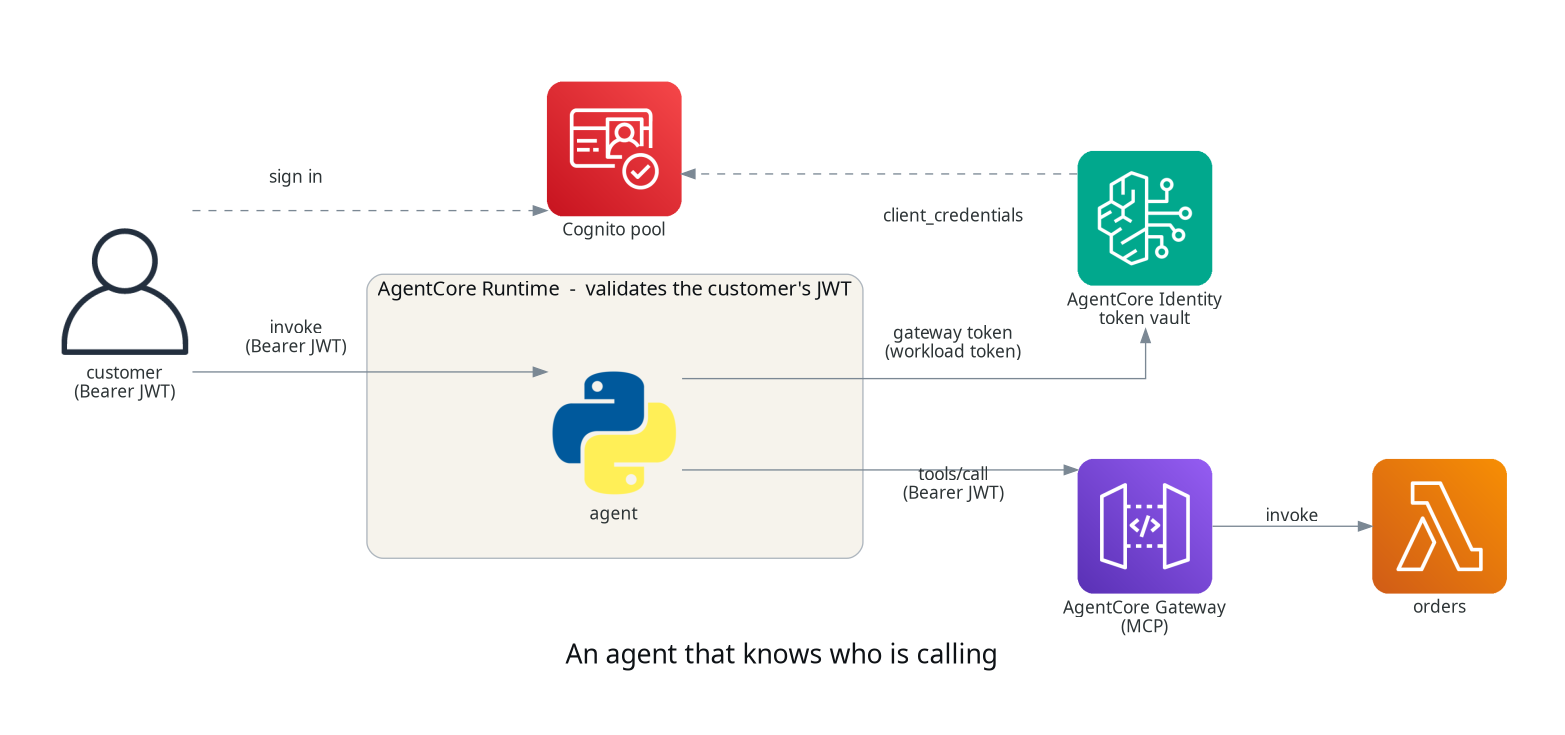
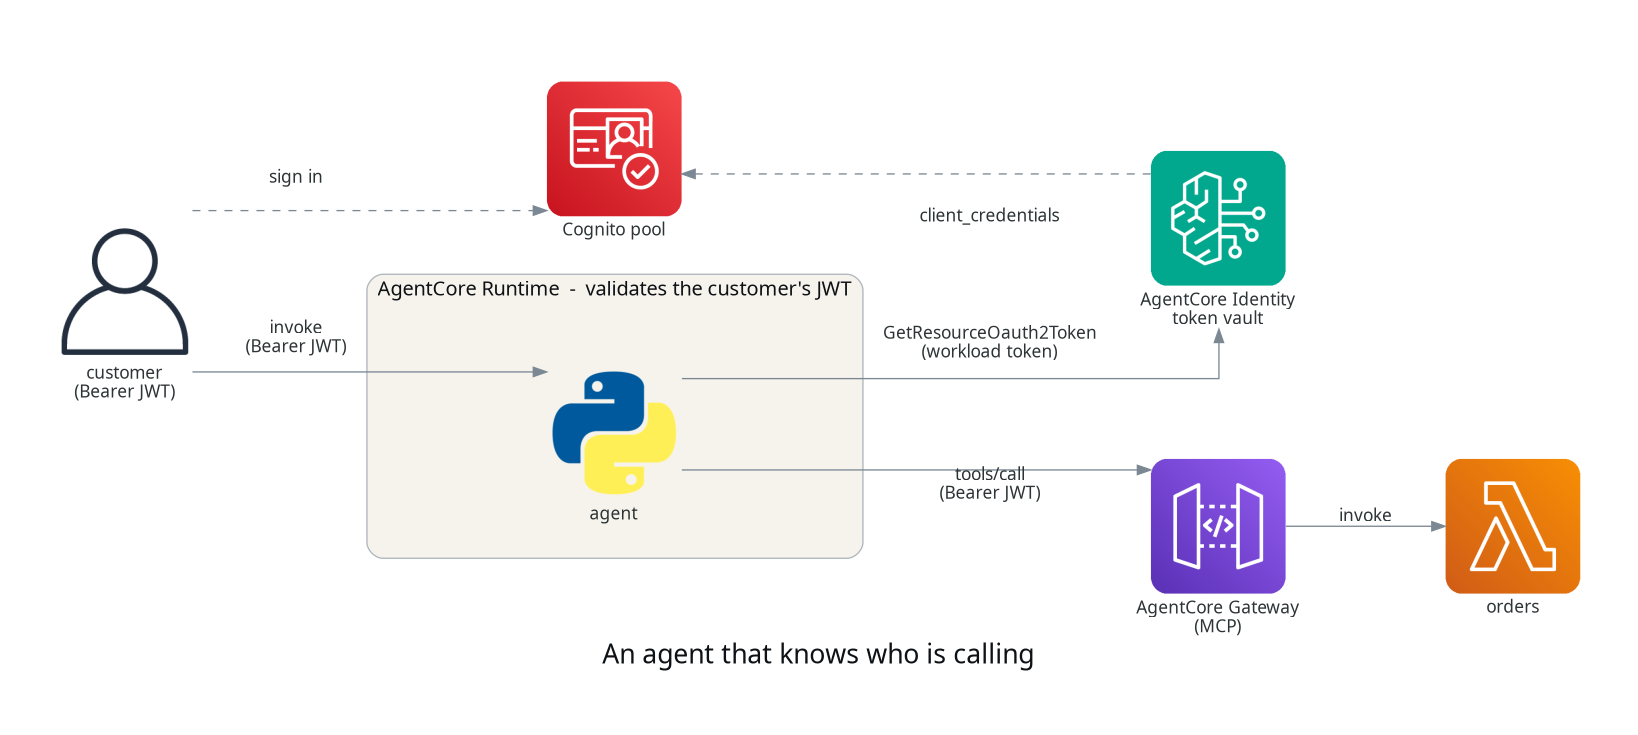
docs: re-render posts 04 and 05 after the review changes
Claude-Session: https://claude.ai/code/session_01YST1ZuMsoENqyeTYghbwr4

diff --git a/docs/agentcore-05-identity/index.html b/docs/agentcore-05-identity/index.html
@@ -4,7 +4,7 @@
 <meta charset="utf-8">
 <title>Knowing who your agent is acting for, with AgentCore Identity — Levantar Demos</title>
 <meta name="viewport" content="width=device-width, initial-scale=1">
-<meta name="description" content="How to put a JWT authorizer on an AgentCore Runtime so every caller is a known customer, have the agent take that identity from the verified token rather than the request body, and move the agent's own credentials into AgentCore Identity's token vault so the agent's code never handles a secret. >">
+<meta name="description" content="How to put a JWT authorizer on an AgentCore Runtime so every caller is an authenticated user of a Cognito pool that Brightwell controls, have the agent take that identity from the verified token rather than the request body, and move the agent's own credentials into AgentCore Identity's token vault ">
 <link rel="canonical" href="https://levantar-ai.github.io/demos/agentcore-05-identity/">
 <meta name="author" content="Andy Rea">
 <meta name="robots" content="index, follow, max-image-preview:large">
@@ -12,7 +12,7 @@
 <meta property="og:site_name" content="Levantar">
 <meta property="og:locale" content="en_GB">
 <meta property="og:title" content="Knowing who your agent is acting for, with AgentCore Identity">
-<meta property="og:description" content="How to put a JWT authorizer on an AgentCore Runtime so every caller is a known customer, have the agent take that identity from the verified token rather than the request body, and move the agent's own credentials into AgentCore Identity's token vault so the agent's code never handles a secret. >">
+<meta property="og:description" content="How to put a JWT authorizer on an AgentCore Runtime so every caller is an authenticated user of a Cognito pool that Brightwell controls, have the agent take that identity from the verified token rather than the request body, and move the agent's own credentials into AgentCore Identity's token vault ">
 <meta property="og:image" content="https://levantar-ai.github.io/demos/agentcore-05-identity/social.png">
 <meta property="og:image:width" content="1200">
 <meta property="og:image:height" content="630">
@@ -23,7 +23,7 @@
 <meta property="article:section" content="Engineering">
 <meta name="twitter:card" content="summary_large_image">
 <meta name="twitter:title" content="Knowing who your agent is acting for, with AgentCore Identity">
-<meta name="twitter:description" content="How to put a JWT authorizer on an AgentCore Runtime so every caller is a known customer, have the agent take that identity from the verified token rather than the request body, and move the agent's own credentials into AgentCore Identity's token vault so the agent's code never handles a secret. >">
+<meta name="twitter:description" content="How to put a JWT authorizer on an AgentCore Runtime so every caller is an authenticated user of a Cognito pool that Brightwell controls, have the agent take that identity from the verified token rather than the request body, and move the agent's own credentials into AgentCore Identity's token vault ">
 <meta name="twitter:image" content="https://levantar-ai.github.io/demos/agentcore-05-identity/social.png">
 <meta name="twitter:image:alt" content="Knowing who your agent is acting for, with AgentCore Identity">
 <link rel="icon" type="image/png" href="../favicon.png">
@@ -32,11 +32,11 @@
   "@context": "https://schema.org",
   "@type": "BlogPosting",
   "headline": "Knowing who your agent is acting for, with AgentCore Identity",
-  "description": "How to put a JWT authorizer on an AgentCore Runtime so every caller is a known customer, have the agent take that identity from the verified token rather than the request body, and move the agent's own credentials into AgentCore Identity's token vault so the agent's code never handles a secret. >",
+  "description": "How to put a JWT authorizer on an AgentCore Runtime so every caller is an authenticated user of a Cognito pool that Brightwell controls, have the agent take that identity from the verified token rather than the request body, and move the agent's own credentials into AgentCore Identity's token vault ",
   "image": "https://levantar-ai.github.io/demos/agentcore-05-identity/social.png",
   "datePublished": "2026-09-07",
   "dateModified": "2026-09-07",
-  "wordCount": 1200,
+  "wordCount": 1600,
   "inLanguage": "en-GB",
   "mainEntityOfPage": {
     "@type": "WebPage",
@@ -173,7 +173,7 @@
         <div class="who">
           <div><span class="name">Andy Rea</span></div>
           <div class="role">Co-Founder &amp; CTO, <a class="org" href="https://levantar.ai" target="_blank" rel="noopener">Levantar</a></div>
-          <div class="facts"><time datetime="2026-09-07">7 September 2026</time><span class="sep">·</span>6 min read<span class="sep">·</span>AgentCore series</div>
+          <div class="facts"><time datetime="2026-09-07">7 September 2026</time><span class="sep">·</span>8 min read<span class="sep">·</span>AgentCore series</div>
         </div>
       </div>
       <nav class="series-nav prev">
@@ -183,11 +183,12 @@
         </a>
       </nav>
 <h2>TL;DR;</h2>
-<p>How to put a JWT authorizer on an AgentCore Runtime so every caller is a
-known customer, have the agent take that identity from the verified token
-rather than the request body, and move the agent's own credentials into
-AgentCore Identity's token vault so the agent's code never handles a
-secret.</p>
+<p>How to put a JWT authorizer on an AgentCore Runtime so every caller is an
+authenticated user of a Cognito pool that Brightwell controls, have the
+agent take that identity from the verified token rather than the request
+body, and move the agent's own credentials into AgentCore Identity's token
+vault so the agent's code asks for a token rather than handling the
+secret itself.</p>
 <blockquote>
 <p>SOURCE CODE - All code for this post is available at:
 <a href="https://github.com/levantar-ai/demos/tree/main/agentcore/05-identity">https://github.com/levantar-ai/demos/tree/main/agentcore/05-identity</a></p>
@@ -197,33 +198,44 @@ secret.</p>
 Brightwell, a small online retailer of outdoor kit that ships with DPD and
 Royal Mail. Posts 01 to 04 gave it a runtime, a tool that looks orders up,
 memory and a sandbox. None of them knew who was asking.</p>
-<p>That was deliberate, and it left two gaps that were flagged as they went
-past. Post 02 noted that every call to the gateway carried the same
-workload identity, so the gateway established that a legitimate client was
-calling, not that it was entitled to a particular order. Post 03 took the
-memory actor straight from the request body, with a note that a real
-application maps it from an identity the workload has actually verified.
-Until now, anyone who could invoke the runtime could say they were anyone.</p>
-<p>This post closes both. Inbound, the runtime validates a customer's bearer
-token before the agent sees the request, and the agent takes the customer
-from the token's claims. Outbound, the agent stops holding a client secret
-to reach the gateway and asks AgentCore Identity for a token instead. Both
-halves are the precondition for the next post, where a model is handed
-these tools and has to act as a known customer rather than as a string the
-caller supplied.</p>
+<p>That was deliberate, and it left two gaps. The gateway in post 02 knew a
+legitimate client was calling, not which customer, and the memory in post
+03 took its actor from the request body. Until now, anyone who could
+invoke the runtime could say they were anyone.</p>
+<p>This post addresses both. Inbound, the runtime validates a customer's
+bearer token before the agent sees the request, and the agent takes the
+customer from the token's claims. Outbound, the agent stops holding a
+client secret to reach the gateway and asks AgentCore Identity for a token
+instead. What it does not do is carry the customer's identity through to
+the gateway. The gateway and the tool behind it still see the agent's own
+identity, so the customer scope is enforced in the agent's code, and that
+is worth keeping in view for the post where a model starts choosing tool
+arguments.</p>
 <p><img alt="Architecture" src="architecture.png" /></p>
 <video controls muted playsinline preload="metadata" style="width:100%;border-radius:14px;border:1px solid var(--line);margin:10px 0;"><source src="demo.mp4" type="video/mp4"></video>
 <h2>1 - Inbound, the runtime checks the caller</h2>
 <p>The Cognito pool from post 02 gains a second app client. The agent's
 client is a machine with a secret and the <code>client_credentials</code> grant.
-Customers are people, so their client has no secret and signs in with a
-password:</p>
+Customers get a public client with no secret. It allows the password
+flow, which keeps this demo to a CLI, and a customer-facing application
+would use Cognito's managed login with the authorization code flow and
+PKCE instead:</p>
 <pre><code class="language-hcl">resource &quot;aws_cognito_user_pool_client&quot; &quot;customers&quot; {
   name         = &quot;${local.name_prefix}-customers&quot;
   user_pool_id = aws_cognito_user_pool.agents.id
 
   generate_secret     = false
   explicit_auth_flows = [&quot;ALLOW_USER_PASSWORD_AUTH&quot;, &quot;ALLOW_REFRESH_TOKEN_AUTH&quot;]
+}
+</code></pre>
+<p>A token from this client proves the caller signed in to the pool. What
+makes that caller a Brightwell customer is that Brightwell creates the
+accounts, with the customer id as the username, and nobody else can. The
+pool's default allows self sign-up, which would let anyone with the public
+client id register a customer id before its owner, so the pool is set to
+admin-only creation:</p>
+<pre><code class="language-hcl">admin_create_user_config {
+  allow_admin_create_user_only = true
 }
 </code></pre>
 <p>The runtime then gets a JWT authorizer pointed at the pool's discovery
@@ -243,8 +255,8 @@ request_header_configuration {
 <p>From here the runtime checks the signature, issuer, expiry and client id
 of every bearer token before a request reaches the agent. A missing token
 gets a 401 from the service, a valid token from the wrong client gets a
-401 naming the mismatched claim, and IAM SigV4 invocation is off, a
-runtime accepts one method or the other.</p>
+401 naming the mismatched claim, and SigV4 invocation no longer works on
+this runtime, because a runtime accepts one inbound method or the other.</p>
 <blockquote>
 <p>NOTE: the allowlist is what makes the token visible to the agent. Without
 it the runtime still validates the token, but the container never sees
@@ -252,8 +264,9 @@ it and the agent has no way of knowing who called.</p>
 </blockquote>
 <h2>2 - The agent reads who is calling</h2>
 <p>Brightwell's customer ids are the usernames in the pool, so the access
-token's <code>username</code> claim is the customer id. The agent decodes the payload
-and takes the customer from there:</p>
+token's <code>username</code> claim is the customer id. The agent decodes the
+payload, checks it is an access token rather than an ID token, and takes
+the customer from there:</p>
 <pre><code class="language-python">def claims_from(headers):
     auth = headers.get(&quot;Authorization&quot;, &quot;&quot;)
     if not auth.startswith(&quot;Bearer &quot;):
@@ -268,7 +281,10 @@ and takes the customer from there:</p>
 
 
 def customer_from(headers):
-    username = (claims_from(headers) or {}).get(&quot;username&quot;)
+    claims = claims_from(headers) or {}
+    if claims.get(&quot;token_use&quot;) != &quot;access&quot;:
+        return None
+    username = claims.get(&quot;username&quot;)
     return username if isinstance(username, str) and username else None
 </code></pre>
 <p>Decoding without verifying is the documented pattern here. The runtime has
@@ -280,14 +296,18 @@ says as much:</p>
 <p>You can skip validating the token signature here because AgentCore
 Runtime has already validated the token during inbound authorization.</p>
 </blockquote>
-<p>A request that arrives without a usable token still gets a 401 from the
-agent. That should never happen, and the check is there so a
-misconfiguration fails loudly rather than defaulting to anyone.</p>
+<p>A request that reaches the agent without a usable access token still gets
+a 401 from the agent. That is not a second authentication, a forged
+payload would pass it, since nothing here checks a signature. It catches a
+missing or unusable token so the agent fails loudly rather than carrying
+on with no customer at all. The runtime's authorizer is the only control.</p>
 <p>Every route from posts 02 and 03 now takes the customer from that claim.
 <code>remember</code> and <code>recap</code> use it as the memory actor, and the <code>actor</code> field
-in the request body is gone. Order questions resolve through the customer's
-own orders, so an order id from another account is not found rather than
-looked up:</p>
+in the request body is gone. Order questions are answered from the
+customer's own order list, so an order id from another account comes back
+as not on the account rather than being fetched by id. Post 02's
+<code>lookup_order</code> tool, which answered for any order id, comes off the gateway
+target, since nothing acting for a customer has a use for it:</p>
 <pre><code class="language-python">def find_order(order_id, customer, workload_token):
     listed = json.loads(list_orders(customer, workload_token))
     for order in listed.get(&quot;orders&quot;, []):
@@ -298,9 +318,11 @@ looked up:</p>
 <h2>3 - Outbound, the agent's own credentials</h2>
 <p>Since post 02 the agent has read its Cognito client secret from Secrets
 Manager and minted its own gateway token. AgentCore Identity takes that
-over. An OAuth2 credential provider holds the client's credentials in the
-token vault, and Terraform sends them write-only, so they are never
-persisted in state:</p>
+over. An OAuth2 credential provider holds the agent client's id and secret
+in the token vault. Terraform passes them as write-only arguments, so this
+resource keeps no copy of the secret in state. The Cognito app client still
+holds its computed secret in state, as it has since post 02, which is why
+the state backend is encrypted and locked down:</p>
 <pre><code class="language-hcl">resource &quot;aws_bedrockagentcore_oauth2_credential_provider&quot; &quot;gateway&quot; {
   name                       = &quot;${local.name_prefix}-gateway&quot;
   credential_provider_vendor = &quot;CustomOauth2&quot;
@@ -316,12 +338,17 @@ persisted in state:</p>
       }
     }
   }
+
+  depends_on = [aws_cognito_user_pool_domain.agents]
 }
 </code></pre>
+<p>The provider fetches the discovery document when it is created, and the
+token endpoint is only in that document once the pool has a domain, hence
+the <code>depends_on</code>.</p>
 <p>Alongside the customer's token, the runtime hands the container a workload
-access token, an opaque token that identifies this agent, and the customer
-it is acting for, to AgentCore Identity. The agent presents it and gets a
-gateway token back. The secret read, the form post and the token cache
+access token in a request header. It represents the runtime's workload
+identity, and the agent treats it as opaque and presents it to AgentCore
+Identity, which hands a gateway token back. The secret read, the form post and the token cache
 from post 02 collapse to one call:</p>
 <pre><code class="language-python">def access_token(workload_token):
     response = client().get_resource_oauth2_token(
@@ -333,14 +360,17 @@ from post 02 collapse to one call:</p>
     return response[&quot;accessToken&quot;]
 </code></pre>
 <p><code>M2M</code> is the <code>client_credentials</code> flow. The same call with
-<code>USER_FEDERATION</code> is how an agent gets a token for a third party such as
-Google or GitHub on the customer's behalf, with the consent step and the
-per-customer token both handled by the vault. Brightwell's agent has no
-third party to reach yet, so that stays a sentence.</p>
+<code>USER_FEDERATION</code> is the path to a third party such as Google or GitHub on
+the customer's behalf. That needs an OAuth app registered with the
+provider and a callback URL on the workload identity, and this demo does
+not build it.</p>
 <p>The execution role needs two statements for this. The token call is scoped
 to this provider and this runtime's workload identity, and the vault reads
 the client secret in the caller's name, so the role also has to be allowed
-to read that one secret:</p>
+to read that one secret. That second statement is worth being clear about.
+The agent's code no longer handles the secret, but the role it runs under
+can still read it, so this is about credentials staying out of the code
+rather than about isolating a compromised agent from them:</p>
 <pre><code class="language-hcl">{
   Sid    = &quot;GatewayTokenFromVault&quot;
   Effect = &quot;Allow&quot;
@@ -362,23 +392,35 @@ to read that one secret:</p>
 <blockquote>
 <p>NOTE: leave the second statement out and the token call fails with an
 <code>AccessDeniedException</code> naming a secret under
-<code>bedrock-agentcore-identity!default/oauth2/</code>. The vault owns that secret
-and reads it with the runtime's role, so the role has to be allowed to.</p>
+<code>bedrock-agentcore-identity!default/oauth2/</code>.</p>
 </blockquote>
 <h2>4 - Running it</h2>
-<p>A customer account, with the password set out of band and never written
-down:</p>
-<pre><code class="language-bash">aws cognito-idp admin-create-user \
+<p>With the stack deployed (<code>make demo-init demo-image demo-apply
+DEMO=agentcore/05-identity</code> from the repository root), the region, the
+pool, the customers' client id and the runtime's invocation URL are
+Terraform outputs. The password is read from the terminal so nothing in
+the repo or the shell history holds it:</p>
+<pre><code class="language-bash">cd agentcore/05-identity
+REGION=$(terraform -chdir=terraform output -raw aws_region)
+POOL=$(terraform -chdir=terraform output -raw user_pool_id)
+CLIENT_ID=$(terraform -chdir=terraform output -raw customers_client_id)
+INVOKE_URL=$(terraform -chdir=terraform output -raw invoke_url)
+SESSION=identity-demo-session-00000000000000001
+read -rsp &quot;Customer password: &quot; PASSWORD; echo
+</code></pre>
+<p>Then a customer account:</p>
+<pre><code class="language-bash">aws cognito-idp admin-create-user --region &quot;$REGION&quot; \
   --user-pool-id &quot;$POOL&quot; --username c-1000 --message-action SUPPRESS
-aws cognito-idp admin-set-user-password \
+aws cognito-idp admin-set-user-password --region &quot;$REGION&quot; \
   --user-pool-id &quot;$POOL&quot; --username c-1000 --password &quot;$PASSWORD&quot; --permanent
 </code></pre>
 <p>The customer signs in and gets an access token whose <code>username</code> is their
 customer id:</p>
-<pre><code class="language-bash">TOKEN=$(aws cognito-idp initiate-auth --client-id &quot;$CLIENT_ID&quot; \
+<pre><code class="language-bash">TOKEN=$(aws cognito-idp initiate-auth --region &quot;$REGION&quot; --client-id &quot;$CLIENT_ID&quot; \
   --auth-flow USER_PASSWORD_AUTH \
   --auth-parameters USERNAME=c-1000,PASSWORD=&quot;$PASSWORD&quot; \
   --query AuthenticationResult.AccessToken --output text)
+unset PASSWORD
 </code></pre>
 <p>With a JWT authorizer the runtime is called over HTTPS with that token
 rather than through the SigV4-signed CLI, and the body no longer says who
@@ -389,7 +431,8 @@ is asking:</p>
   -H &quot;X-Amzn-Bedrock-AgentCore-Runtime-Session-Id: $SESSION&quot; \
   -d '{&quot;prompt&quot;: &quot;list my orders&quot;}'
 </code></pre>
-<pre><code class="language-json">{&quot;result&quot;: {&quot;customer_id&quot;: &quot;c-1000&quot;, &quot;orders&quot;: [
+<p>The response, abridged to the first two orders and the last:</p>
+<pre><code>{&quot;result&quot;: {&quot;customer_id&quot;: &quot;c-1000&quot;, &quot;orders&quot;: [
   {&quot;order_id&quot;: 1033, &quot;placed_at&quot;: &quot;2026-01-22&quot;, &quot;items&quot;: 1, &quot;total&quot;: 12.0, &quot;status&quot;: &quot;delivered&quot;, &quot;carrier&quot;: &quot;DPD&quot;, &quot;eta&quot;: null},
   {&quot;order_id&quot;: 1038, &quot;placed_at&quot;: &quot;2026-01-26&quot;, &quot;items&quot;: 4, &quot;total&quot;: 238.0, &quot;status&quot;: &quot;delivered&quot;, &quot;carrier&quot;: &quot;DPD&quot;, &quot;eta&quot;: null},
   ...
@@ -399,7 +442,11 @@ is asking:</p>
 <p>Seven orders, all c-1000's, because the agent asked for c-1000's orders
 and nothing in the request could have said otherwise. An order on someone
 else's account gets nothing:</p>
-<pre><code class="language-bash">-d '{&quot;prompt&quot;: &quot;where is order 1014?&quot;}'
+<pre><code class="language-bash">curl -s &quot;$INVOKE_URL&quot; \
+  -H &quot;Authorization: Bearer $TOKEN&quot; \
+  -H &quot;Content-Type: application/json&quot; \
+  -H &quot;X-Amzn-Bedrock-AgentCore-Runtime-Session-Id: $SESSION&quot; \
+  -d '{&quot;prompt&quot;: &quot;where is order 1014?&quot;}'
 # {&quot;result&quot;: {&quot;error&quot;: &quot;order 1014 is not on your account&quot;}}
 </code></pre>
 <p>And without a token the request never reaches the agent:</p>
@@ -409,23 +456,26 @@ www-authenticate: Bearer resource_metadata=&quot;https://bedrock-agentcore.us-ea
 {&quot;jsonrpc&quot;:&quot;2.0&quot;,&quot;error&quot;:{&quot;code&quot;:-32001,&quot;message&quot;:&quot;Missing Authentication Token&quot;}}
 </code></pre>
 <blockquote>
-<p>NOTE: the session id header is still required and still has to be at
-least 33 characters, exactly as with the CLI. <code>$INVOKE_URL</code> is the
-runtime ARN URL-encoded into the service endpoint, and the demo's
-Terraform emits it as an output.</p>
+<p>NOTE: the session id header is optional, the service allocates one when
+it is absent, but when you send one it still has to be at least 33
+characters, exactly as with the CLI. <code>$INVOKE_URL</code> is the runtime ARN
+URL-encoded into the service endpoint, and the demo's Terraform emits it
+as an output.</p>
 </blockquote>
 <h2>Conclusion</h2>
 <p>The agent now knows who it is acting for. The runtime validates the
-customer's token, the agent takes the customer from claims it did not
-have to trust, and every order lookup, memory read and memory write is
-scoped to that customer. The agent's own credentials live in the token
-vault and its code holds no secret, one Terraform resource, two IAM
-statements and one API call.</p>
+customer's token, the agent takes the customer from claims the runtime
+has already verified, and it scopes every order question, memory read and memory
+write to that customer. The gateway still trusts the agent's arguments,
+which is the boundary to keep in mind when a model starts choosing them. The agent's own credentials live in the token
+vault and its code holds no secret, and that took one Terraform resource,
+two IAM statements and one API call.</p>
 <p>That is the precondition for the next post, where a Bedrock model is
 handed the tools this series has built, the order lookups, memory and the
 sandbox, and asked a question nobody wrote code for. It will answer as
-the customer this post identified, which is the only sensible way to let
-a model choose.</p>
+the customer this post identified, which means the customer id is
+injected by the agent from the verified token and kept out of any tool
+argument the model controls.</p>
 <p>References:</p>
 <ul>
 <li><a href="https://github.com/levantar-ai/demos/tree/main/agentcore/05-identity">https://github.com/levantar-ai/demos/tree/main/agentcore/05-identity</a></li>

diff --git a/docs/agentcore-04-builtin-tools/index.html b/docs/agentcore-04-builtin-tools/index.html
@@ -394,9 +394,9 @@ anywhere near them. A later post in the series hands a model the tools it
 has built, the order lookups, memory and this sandbox, and asks it a
 question nobody wrote code for. That is when the sandbox runs code a model
 wrote, which is the case it exists for.</p>
-<p>The next post gives the agent an identity of its own, inbound
-authentication for callers and outbound OAuth so it can act on a user's
-behalf.</p>
+<p>The next post gives the agent an identity at both ends, inbound
+authentication so it knows which customer is calling, and its own
+credentials held by AgentCore Identity rather than in its code.</p>
 <p>References:</p>
 <ul>
 <li><a href="https://github.com/levantar-ai/demos/tree/main/agentcore/04-builtin-tools">https://github.com/levantar-ai/demos/tree/main/agentcore/04-builtin-tools</a></li>
